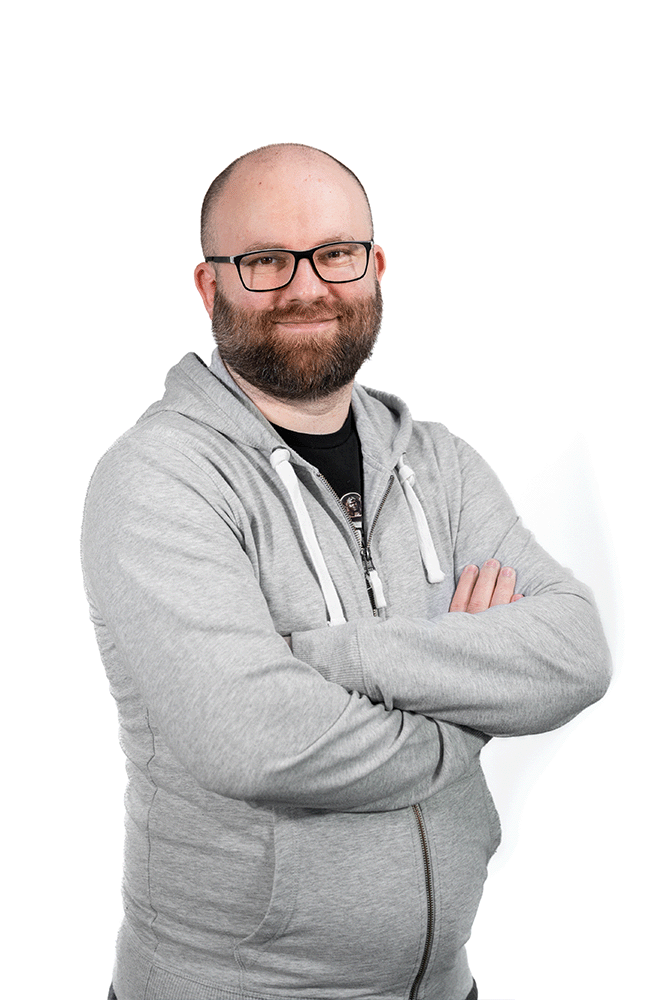
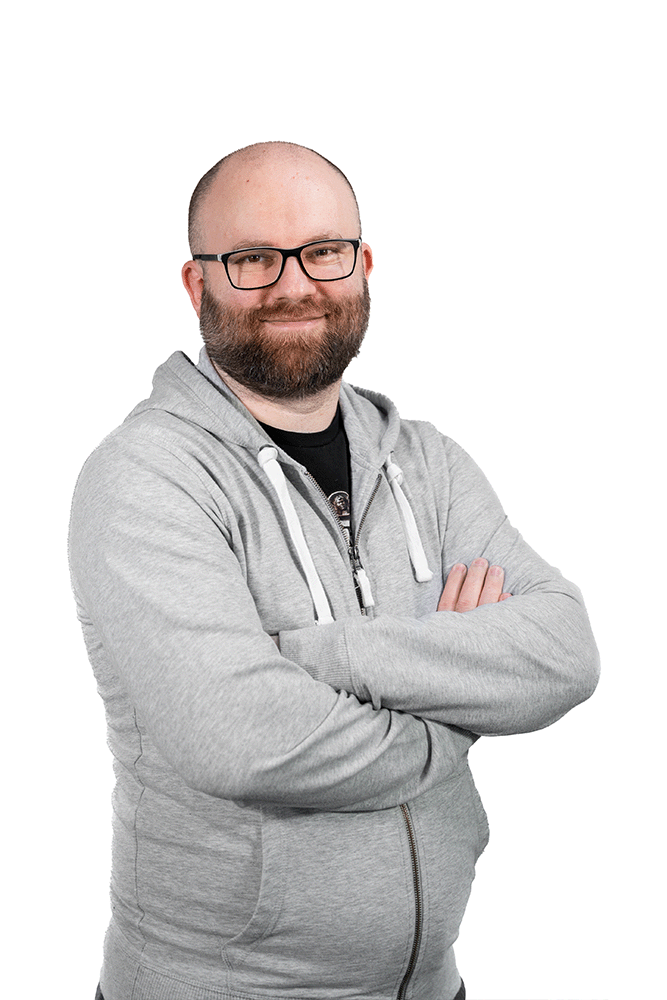
Update Members “damian-petla”

Changed region(s): [[0.09, 0.124, 0.9295, 1.0], [0.7196, 0.465, 0.7796, 0.527]]

diff --git a/content/members/damian-petla.md b/content/members/damian-petla.md
@@ -8,7 +8,7 @@ short_name: Damian
 email: damian.petla@brightinventions.pl
 bio: Senior Android Developer
 description: Senior Android Developer
-avatar: /images/damian_p_team.png
+avatar: /images/damian_team_2022.png
 avatar_hover: /images/damian_passion2022.png
 published: true
 ---
